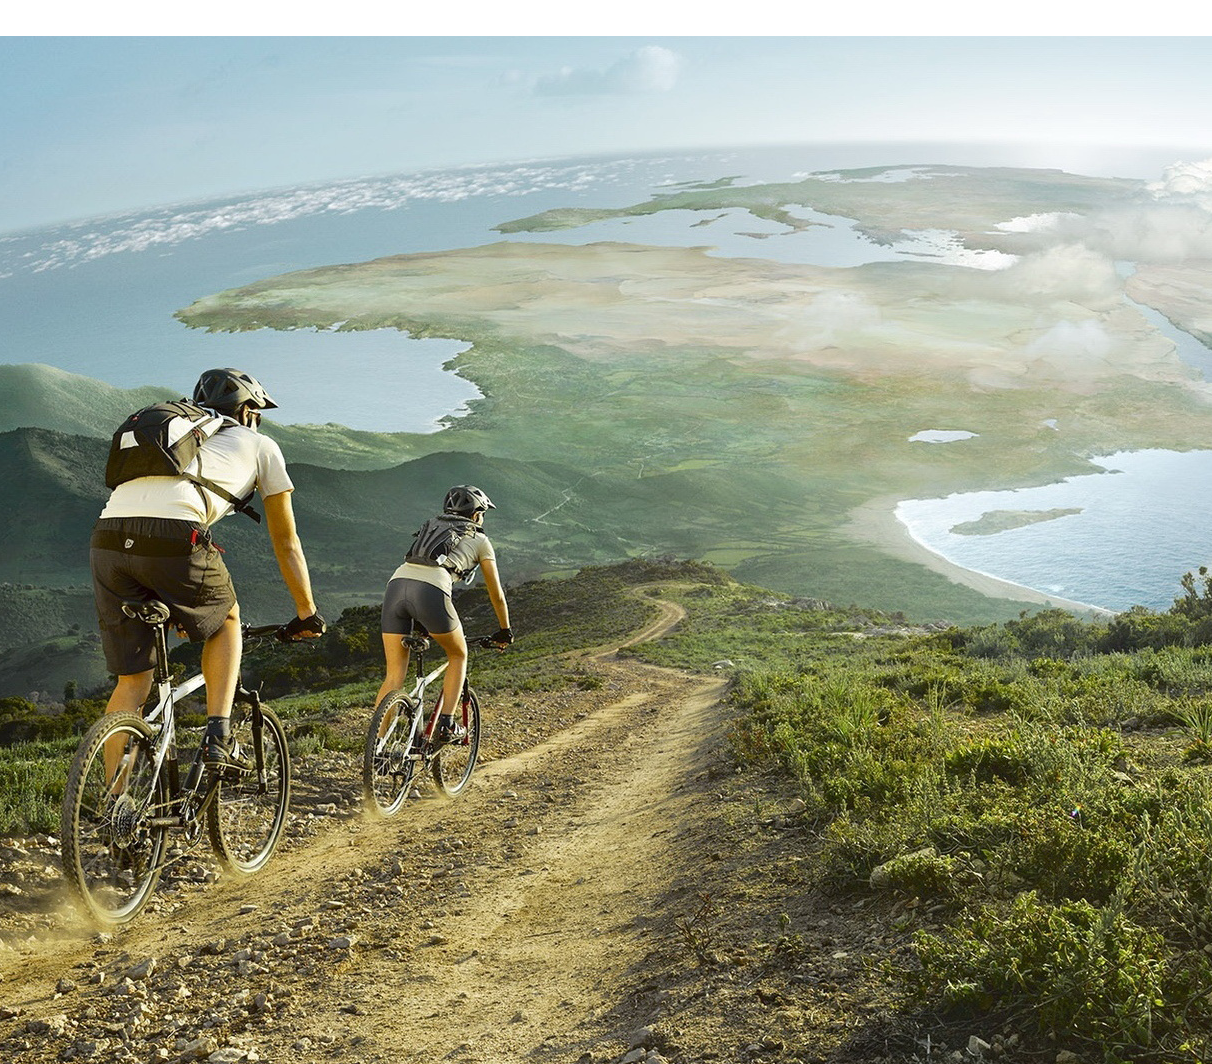
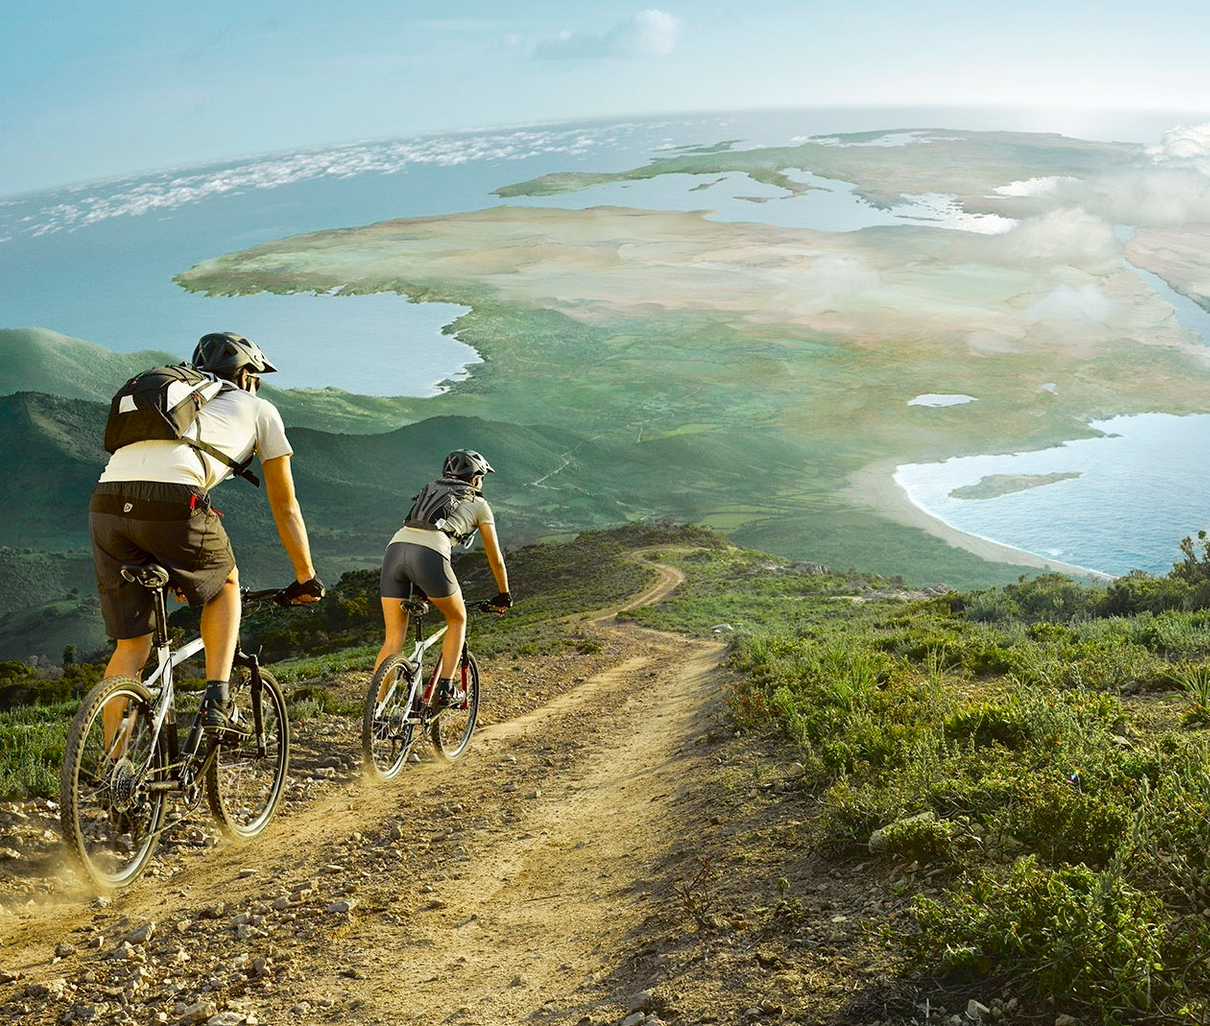
loaded checking

diff --git a/HomeWork5_1/css/style.css b/HomeWork5_1/css/style.css
@@ -3,17 +3,21 @@
   padding: 0;
 }
 
+html,
+body {
+width: 100%;
+height: 100%;
+}
+
 body {
   background-image: url('../img/background.png');
   background-repeat: no-repeat;
   background-size: cover;
-  width: 100%;
-  height: 1064px;
 }
 
 .wrapper {
   width: 100%;
-  height: 100%;
+  height: 1064px;
   position: relative;
 }
 
@@ -128,8 +132,8 @@ header li:nth-child(-n+5):hover a {
 }
 
 .content {
-  height: 630px;
   width: 560px;
+  background-size: auto;
   position: absolute;
   top: 50%;
   left: 50%;
@@ -316,6 +320,7 @@ header li:nth-child(-n+5):hover a {
   line-height: 16px;
   font-family: 'Helvetica Neue','Tahoma', sans-serif;
   width: 312px;
-  margin-left: 123px;
   text-align: center;
+  margin: 0 auto;
+  margin-bottom: 20px;
 }
